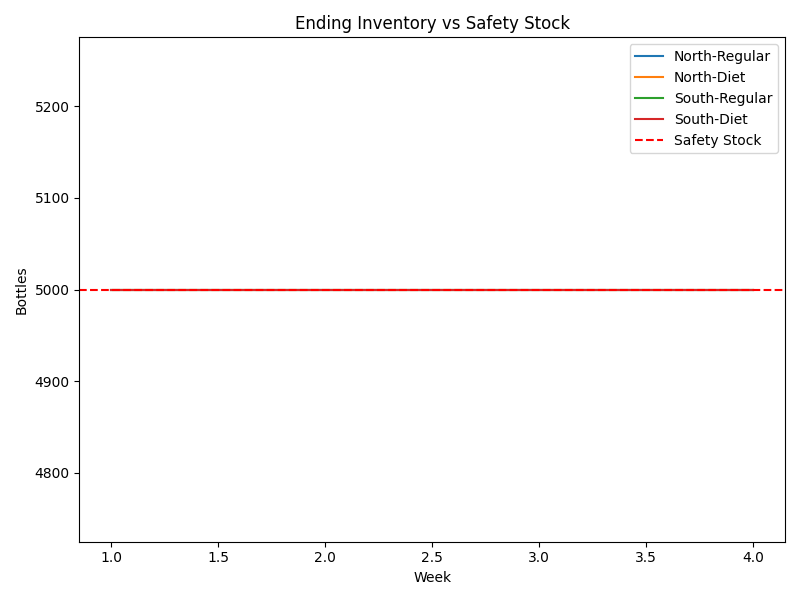
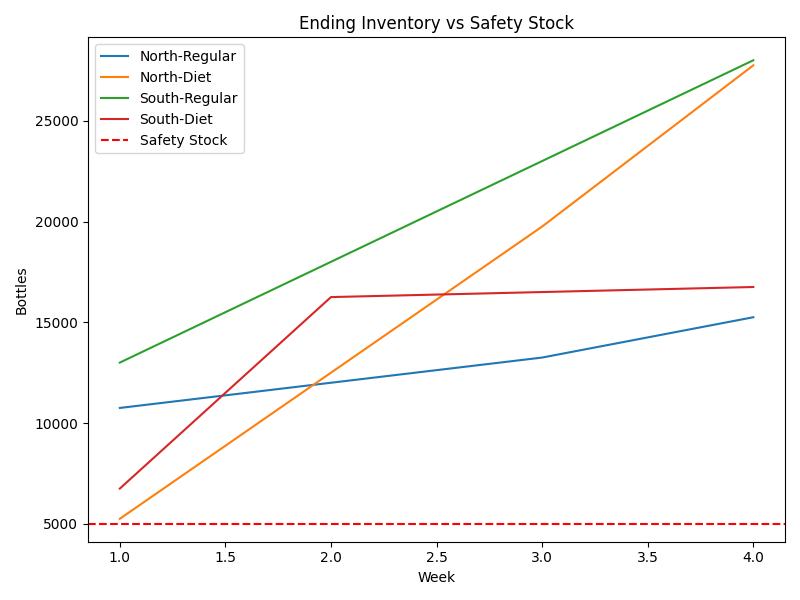
fixed

diff --git a/planner.py b/planner.py
@@ -52,18 +52,7 @@ def generate_random_demand(num_weeks=4, base_regular_north=15000, base_diet_nort
 
 def apply_outflow_container_rounding(demand_df, container_size=750):
     """
-    Rounds up dedef run_planner(capacity, truck_size, safety, demand_df=None, container_size=750):
-    if demand_df is None:
-        demand_df = pd.DataFrame(demand_data)
-    
-    # Apply outflow container rounding to demand
-    demand_df = apply_outflow_container_rounding(demand_df, container_size)
-    
-    prod_df = plan_production(demand_df, capacity)
-    ship_df = allocate_fair_share(demand_df, prod_df)
-    ship_df = apply_smart_truck_rounding(ship_df, demand_df, truck_size, safety)
-    inv_df = simulate_inventory_with_buffer(ship_df, demand_df, safety)
-    ful_df = fulfillment_summary_with_buffer(demand_df, inv_df)est container size multiples for customer fulfillment
+    Rounds up demand to smallest container size multiples for customer fulfillment
     Each customer order must be in multiples of container_size (default 750 bottles)
     """
     demand_df = demand_df.copy()
@@ -82,10 +71,10 @@ demand_data = generate_random_demand(num_weeks=4, seed=42).to_dict('list')
 demand_df = pd.DataFrame(demand_data)
 
 # ---------- Planning Logic ----------
-def plan_production_with_reserve(demand_df, capacity, container_size=750):
+def plan_production_with_reserve(demand_df, capacity):
     """
     Plan production considering reserve system.
-    Production is rounded to container multiples.
+    Production is based on actual demand (no container rounding on production side).
     When demand exceeds production, dip into reserve.
     When production exceeds demand, refill reserve.
     """
@@ -99,65 +88,49 @@ def plan_production_with_reserve(demand_df, capacity, container_size=750):
         diet_demand = row["North_Diet"] + row["South_Diet"]
         total_demand = reg_demand + diet_demand
         
-        # Calculate what we can produce this week (round to container multiples)
+        # Calculate what we can produce this week
         if total_demand <= capacity:
             # We can meet all demand with production
-            # Round each SKU production to container multiples
-            reg_prod = int(np.ceil(reg_demand / container_size)) * container_size
-            diet_prod = int(np.ceil(diet_demand / container_size)) * container_size
-            total_prod = reg_prod + diet_prod
-            
-            # Check if rounded production exceeds capacity
-            if total_prod > capacity:
-                # Scale down proportionally and round to containers
-                scale = capacity / total_prod
-                reg_prod = int(reg_prod * scale // container_size) * container_size
-                diet_prod = int(diet_prod * scale // container_size) * container_size
-                total_prod = reg_prod + diet_prod
+            reg_prod = reg_demand
+            diet_prod = diet_demand
+            total_prod = total_demand
             
             # Calculate surplus production
             surplus = capacity - total_prod
             
-            # Use surplus to refill reserve (only if we have meaningful surplus)
-            if surplus >= container_size:
-                reserve_refill = min(surplus, RESERVE_CAPACITY - current_reserve)
-                # Round reserve refill to container multiples
-                reserve_refill = int(reserve_refill // container_size) * container_size
-                current_reserve += reserve_refill
-                
-                if reserve_refill > 0:
-                    reserve_transactions.append({
-                        'Week': week,
-                        'Action': 'Refill',
-                        'Amount': reserve_refill,
-                        'Reserve_Before': current_reserve - reserve_refill,
-                        'Reserve_After': current_reserve,
-                        'Surplus_Used': reserve_refill,
-                        'Remaining_Surplus': surplus - reserve_refill
-                    })
+            # Use surplus to refill reserve
+            reserve_refill = min(surplus, RESERVE_CAPACITY - current_reserve)
+            current_reserve += reserve_refill
+            
+            if reserve_refill > 0:
+                reserve_transactions.append({
+                    'Week': week,
+                    'Action': 'Refill',
+                    'Amount': reserve_refill,
+                    'Reserve_Before': current_reserve - reserve_refill,
+                    'Reserve_After': current_reserve,
+                    'Surplus_Used': reserve_refill,
+                    'Remaining_Surplus': surplus - reserve_refill
+                })
             
         else:
             # Demand exceeds capacity - need to use reserve
             deficit = total_demand - capacity
             reserve_used = min(deficit, current_reserve)
-            # Round reserve usage to container multiples
-            reserve_used = int(reserve_used // container_size) * container_size
             current_reserve -= reserve_used
             
-            # Scale production to capacity and round to containers
-            available_production = capacity + reserve_used
-            scale = available_production / total_demand
+            # Scale production to capacity
+            scale = capacity / total_demand
+            reg_prod = int(reg_demand * scale)
+            diet_prod = int(diet_demand * scale)
             
-            reg_prod = int(reg_demand * scale // container_size) * container_size
-            diet_prod = int(diet_demand * scale // container_size) * container_size
-            
-            # Ensure we don't exceed available production
-            total_prod = reg_prod + diet_prod
-            if total_prod > available_production:
-                # Reduce proportionally
-                scale_down = available_production / total_prod
-                reg_prod = int(reg_prod * scale_down // container_size) * container_size
-                diet_prod = int(diet_prod * scale_down // container_size) * container_size
+            # Add reserve to production allocation proportionally
+            if total_demand > 0:
+                reg_from_reserve = int(reserve_used * reg_demand / total_demand)
+                diet_from_reserve = reserve_used - reg_from_reserve
+                
+                reg_prod += reg_from_reserve
+                diet_prod += diet_from_reserve
             
             if reserve_used > 0:
                 reserve_transactions.append({
@@ -179,7 +152,7 @@ def plan_production_with_reserve(demand_df, capacity, container_size=750):
 
 def plan_production(demand_df, capacity):
     """Wrapper for backward compatibility"""
-    prod_df, _ = plan_production_with_reserve(demand_df, capacity, container_size=750)
+    prod_df, _ = plan_production_with_reserve(demand_df, capacity)
     return prod_df
 
 def allocate_fair_share(demand_df, prod_df):
@@ -212,9 +185,9 @@ def allocate_fair_share(demand_df, prod_df):
 
 def apply_smart_truck_rounding_with_buffer(ship_df, demand_df, truck_size, safety, initial_inventory=None):
     """
-    Apply truck rounding where:
-    - Shipments are in multiples of 750 (container size)
-    - Trucks are calculated to carry the required containers
+    Apply truck rounding with forward-looking optimization:
+    - Fill trucks to capacity (10k) when future demand warrants it
+    - Don't overfill if future demand doesn't require it
     - Maintain safety stock levels
     """
     ship_df = ship_df.copy()
@@ -234,26 +207,65 @@ def apply_smart_truck_rounding_with_buffer(ship_df, demand_df, truck_size, safet
         for idx, row in week_shipments.iterrows():
             dc = row["DC"]
             sku = row["SKU"]
-            allocated_qty = row["Qty"]  # This should already be in multiples of 750 from production
+            allocated_qty = row["Qty"]  # This is the fair share allocation
             
-            # Calculate actual need considering current inventory and safety stock
+            # Calculate current need
             current_inv = inv[(dc, sku)]
-            demand = week_demand[f"{dc}_{sku}"]
+            current_demand = week_demand[f"{dc}_{sku}"]
             
-            # The allocated quantity should already be optimal from production planning
-            # Just ensure it's in container multiples and calculate trucks needed
-            final_qty = allocated_qty  # Already in multiples of 750
+            # Look at future demand to optimize truck filling
+            future_demand = 0
+            current_week = week
+            remaining_weeks = demand_df[demand_df["Week"] > current_week]
             
-            # Calculate trucks needed to carry this quantity
-            # Each truck can carry truck_size bottles
-            trucks_needed = int(np.ceil(final_qty / truck_size)) if final_qty > 0 else 0
+            for _, future_row in remaining_weeks.iterrows():
+                future_demand += future_row[f"{dc}_{sku}"]
+            
+            # Calculate what we minimally need this week
+            min_needed = max(0, current_demand + safety - current_inv)
+            
+            # Calculate how many trucks the allocated quantity needs
+            base_trucks = int(np.ceil(allocated_qty / truck_size)) if allocated_qty > 0 else 0
+            base_truck_qty = base_trucks * truck_size
+            
+            # Check if we can optimize by filling trucks to capacity
+            if base_truck_qty > allocated_qty:
+                # We have extra space in trucks
+                extra_space = base_truck_qty - allocated_qty
+                
+                # Only use extra space if future demand can justify it
+                # or if we need it to maintain safety stock
+                if future_demand > extra_space or min_needed > allocated_qty:
+                    # Future demand or safety stock justifies filling trucks
+                    final_qty = base_truck_qty
+                    final_trucks = base_trucks
+                else:
+                    # Future demand doesn't justify overfilling
+                    # Use minimum trucks needed for allocated quantity
+                    if allocated_qty > 0:
+                        min_trucks = max(1, int(np.ceil(allocated_qty / truck_size)))
+                        final_qty = min_trucks * truck_size
+                        final_trucks = min_trucks
+                    else:
+                        final_qty = 0
+                        final_trucks = 0
+            else:
+                # Allocated quantity exactly fits or needs more trucks
+                final_qty = base_truck_qty
+                final_trucks = base_trucks
+            
+            # Ensure we don't ship less than minimally needed for safety
+            if final_qty < min_needed:
+                safety_trucks = int(np.ceil(min_needed / truck_size))
+                final_qty = safety_trucks * truck_size
+                final_trucks = safety_trucks
             
             # Update the dataframe
-            ship_df.at[idx, "Trucks"] = trucks_needed
+            ship_df.at[idx, "Trucks"] = final_trucks
             ship_df.at[idx, "Qty"] = final_qty
             
             # Update inventory for next iteration
-            inv[(dc, sku)] = max(safety, current_inv + final_qty - demand)
+            inv[(dc, sku)] = max(safety, current_inv + final_qty - current_demand)
     
     return ship_df
 
@@ -447,7 +459,7 @@ def run_planner(capacity, truck_size, safety, demand_df=None, container_size=750
     # Apply outflow container rounding to demand
     demand_df = apply_outflow_container_rounding(demand_df, container_size)
     
-    prod_df, reserve_df = plan_production_with_reserve(demand_df, capacity, container_size)
+    prod_df, reserve_df = plan_production_with_reserve(demand_df, capacity)
     ship_df = allocate_fair_share(demand_df, prod_df)
     ship_df = apply_smart_truck_rounding(ship_df, demand_df, truck_size, safety)
     inv_df = simulate_inventory(ship_df, demand_df, safety)
@@ -489,7 +501,7 @@ if __name__ == "__main__":
     parser.add_argument("--capacity", type=int, required=True)
     parser.add_argument("--truck", type=int, required=True)
     parser.add_argument("--safety", type=int, required=True)
-    parser.add_argument("--container", type=int, default=750, help="Customer container size (default: 750)")
+    parser.add_argument("--container", type=int, default=750, help="Minimum Order Quantity (default: 750)")
     parser.add_argument("--demand_csv", type=str, default=None)
     parser.add_argument("--init_csv", type=str, default=None)
     parser.add_argument("--seed", type=int, default=None, help="Random seed for demand generation")
@@ -506,7 +518,7 @@ if __name__ == "__main__":
     # Apply outflow container rounding
     demand_df = apply_outflow_container_rounding(demand_df, args.container)
 
-    prod_df, reserve_df = plan_production_with_reserve(demand_df, args.capacity, args.container)
+    prod_df, reserve_df = plan_production_with_reserve(demand_df, args.capacity)
     ship_df = allocate_fair_share(demand_df, prod_df)
     ship_df = apply_smart_truck_rounding(ship_df, demand_df, args.truck, args.safety)
     inv_df = simulate_inventory_with_buffer(ship_df, demand_df, args.safety)

diff --git a/app.py b/app.py
@@ -16,7 +16,7 @@ with st.sidebar:
     capacity = st.number_input("Weekly Plant Capacity", value=150000, min_value=0, help="Total bottles the plant can produce per week")
     truck = st.number_input("Truck Size (bottles)", value=10000, min_value=0, help="Number of bottles per truck shipment")
     safety = st.number_input("Safety Stock / DC / SKU", value=5000, min_value=0, help="Minimum inventory to maintain at each DC per SKU")
-    container = st.number_input("Customer Container Size", value=750, min_value=0, help="Customer orders must be in multiples of this size")
+    container = st.number_input("Minimum Order Quantity", value=750, min_value=0, help="Customer orders must be in multiples of this size")
 
     st.header("Demand Generation")
     use_random = st.checkbox("Generate Random Demand", value=True, help="Generate random demand data instead of using uploaded file")
@@ -42,6 +42,9 @@ if st.button("Run Planning", type="primary", width='stretch'):
         else:
             demand_df = default_demand_df()
 
+        # Store original demand before adjustment
+        original_demand_df = demand_df.copy()
+        
         prod_df, ship_df, inv_df, ful_df, reserve_df, fig_paths = run_planner(capacity, truck, safety, demand_df, container)
         
         # Store results in session state
@@ -56,7 +59,8 @@ if st.button("Run Planning", type="primary", width='stretch'):
             'truck': truck,
             'safety': safety,
             'container': container,
-            'demand_df': demand_df
+            'demand_df': demand_df,
+            'original_demand_df': original_demand_df
         }
 
     st.success("Plan generated successfully!")
@@ -71,6 +75,7 @@ if st.session_state.planning_results is not None:
     reserve_df = results['reserve_df']
     fig_paths = results['fig_paths']
     demand_df = results['demand_df']
+    original_demand_df = results['original_demand_df']
     
     # Display key metrics including reserve status
     total_weekly_capacity = results['capacity'] * prod_df.shape[0]
@@ -109,9 +114,24 @@ if st.session_state.planning_results is not None:
 
     with tab1:
         with st.expander("Generated Demand", expanded=True):
-            st.dataframe(demand_df, width='stretch')
+            # Create combined demand table with original and MOQ-adjusted values
+            combined_demand_df = original_demand_df.copy()
             
-        with st.expander("Production based on MOQ", expanded=True):
+            # Add MOQ-adjusted columns
+            for col in original_demand_df.columns:
+                if col != "Week":
+                    combined_demand_df[f"{col}_Adjusted_MOQ"] = demand_df[col]
+            
+            # Reorder columns to show original and adjusted side by side
+            new_cols = ["Week"]
+            for col in original_demand_df.columns:
+                if col != "Week":
+                    new_cols.extend([col, f"{col}_Adjusted_MOQ"])
+            
+            combined_demand_df = combined_demand_df[new_cols]
+            st.dataframe(combined_demand_df, width='stretch')
+            
+        with st.expander("Production", expanded=True):
             st.dataframe(prod_df, width='stretch')
         
         with st.expander("Shipments", expanded=False):
